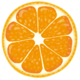
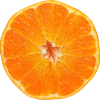
実際のかんきつの画像に変更

diff --git a/script.js b/script.js
@@ -17,20 +17,39 @@ const WALL_THICKNESS = CANVAS_HEIGHT * WALL_THICKNESS_RATIO;
 const ORANGE_SPAWN_Y = CANVAS_HEIGHT * ORANGE_SPAWN_Y_RATIO;
 const GAME_OVER_HEIGHT = CANVAS_HEIGHT * GAME_OVER_HEIGHT_RATIO;
 
-const BASE_SIZE = 40; // オレンジの基準サイズ（画像のピクセル半径に合わせて調整する）
+const BASE_SIZE = 50; // オレンジの基準サイズ（画像のピクセル半径に合わせて調整する）
 const ORANGE_TIMEOUT = 2000;
 const NEW_ORANGE_DELAY = 300;
 const IMAGE_PATH = "static/images/"; // 画像の共通パス
-const scales = [0.5, 0.7, 1];
+const scales = [0.5, 0.8, 1.0, 1.3, 1.6, 1.9, 2.2, 2.8, 3.1, 3.4, 4];
+const weightedIndices = [0, 0, 1, 1, 2, 3, 4, 5];
+const orangeSizeIndex =
+  weightedIndices[Math.floor(Math.random() * weightedIndices.length)];
 const images = [
   `${IMAGE_PATH}kanpei.png`,
   `${IMAGE_PATH}kiyomi.png`,
-  `${IMAGE_PATH}kanpei.png`,
+  `${IMAGE_PATH}iyokan.png`,
+  `${IMAGE_PATH}kashino28.png`,
+  `${IMAGE_PATH}natsumi.png`,
+  `${IMAGE_PATH}kawati.png`,
+  `${IMAGE_PATH}setoka.png`,
+  `${IMAGE_PATH}harehime.png`,
+  `${IMAGE_PATH}ponkan.png`,
+  `${IMAGE_PATH}siranui.png`,
+  `${IMAGE_PATH}unsyu.png`,
 ];
 const orangePoints = {
-  [`${IMAGE_PATH}setoka.png`]: 1,
-  [`${IMAGE_PATH}kiyomi.png`]: 2,
-  [`${IMAGE_PATH}kanpei.png`]: 3,
+  [`${IMAGE_PATH}kanpei.png`]: 1,
+  [`${IMAGE_PATH}kiyomi.png`]: 3,
+  [`${IMAGE_PATH}iyokan.png`]: 6,
+  [`${IMAGE_PATH}kashino28.png`]: 10,
+  [`${IMAGE_PATH}natsumi.png`]: 15,
+  [`${IMAGE_PATH}kawati.png`]: 21,
+  [`${IMAGE_PATH}setoka.png`]: 28,
+  [`${IMAGE_PATH}harehime.png`]: 36,
+  [`${IMAGE_PATH}ponkan.png`]: 45,
+  [`${IMAGE_PATH}siranui.png`]: 55,
+  [`${IMAGE_PATH}unsyu.png`]: 100,
 };
 
 // エンジンとレンダラーの作成
@@ -109,7 +128,7 @@ function createOrange(x, y, sizeIndex, isStatic = false) {
   let radius = BASE_SIZE * scales[sizeIndex];
   let orange = Bodies.circle(x, y, radius, {
     isStatic: isStatic,
-    restitution: 0.7,
+    restitution: 0.3,
     render: {
       sprite: {
         texture: images[sizeIndex],
@@ -185,7 +204,7 @@ Matter.Events.on(render, "afterRender", function () {
 // ゲーム初期化時に待機するオレンジを作成
 function createInitialOrange() {
   const x = render.options.width / 2; // キャンバスの中央
-  const sizeIndex = Math.floor(Math.random() * scales.length); // ランダムなサイズ
+  const sizeIndex = Math.floor(Math.random() * orangeSizeIndex); // ランダムなサイズ
   createOrange(x, ORANGE_SPAWN_Y, sizeIndex, true); // trueを追加してオレンジを静的にする
 }
 
@@ -237,7 +256,7 @@ function handleInteraction(clientX, clientY) {
       createOrange(
         nextOrangeX,
         nextOrangeY,
-        Math.floor(Math.random() * scales.length),
+        Math.floor(Math.random() * orangeSizeIndex),
         true
       );
     }, NEW_ORANGE_DELAY);
